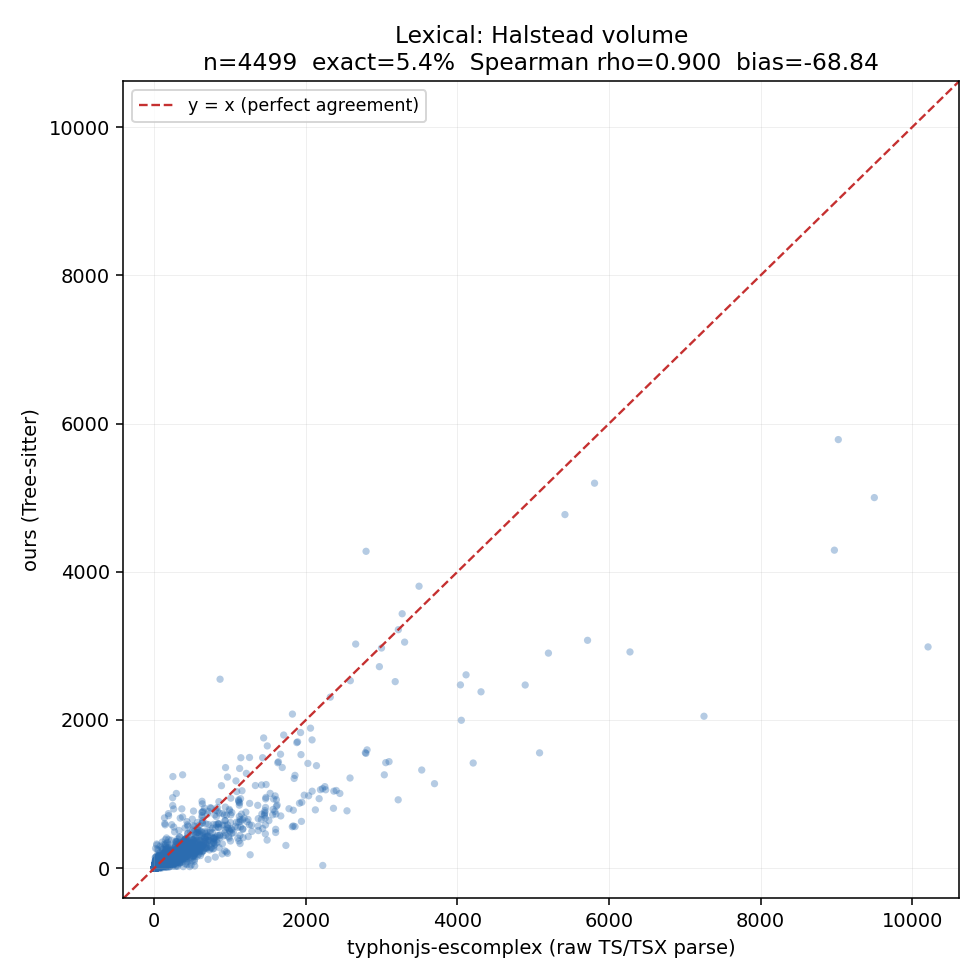
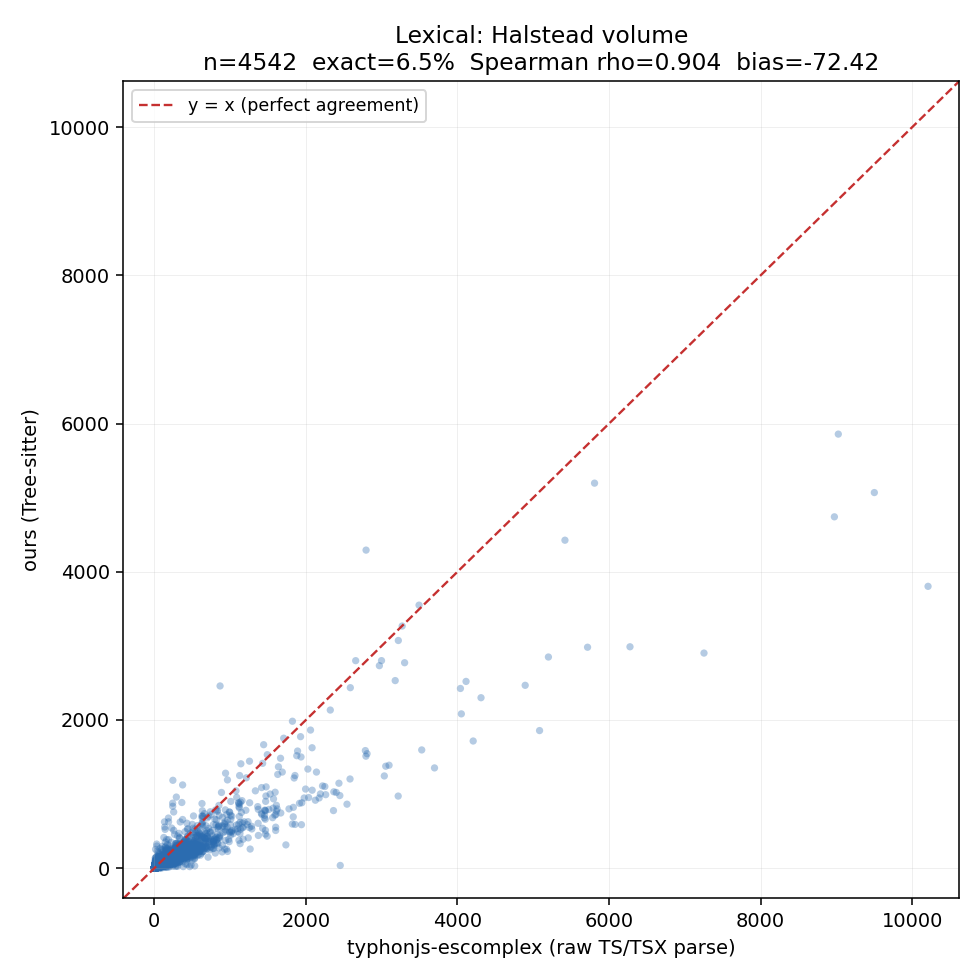
Regenerate cohort, self-analysis, Figure 3 and samples under 0.2.0
One combined pass, superseding 0ff89a1 (0.1.0) and everything before it.

Cohort structural columns are unchanged (424 files / 62,471 LOC / 3,473
functions, 0 skipped) — expected, since 0.2.0 moves per-function metrics and the
jscpd fix only bites where node_modules is on disk, which none of the six have.

Self-analysis duplication goes null -> 3.3%: jscpd previously walked
research/validation/node_modules and was killed at 60s. Self wall clock
64.24s -> 13.34s, so all 7 Figure 3 points now complete and none is flagged as
timeout-dominated. New fit t = 3.80e-04 * LOC^0.91, R^2 = 0.568.

Validation vs baselines: structural 99.81% / rho 0.9972, cognitive 92.44% /
0.9768, lexical 6.49% / 0.9038 (was 99.80 / 92.28 / 5.38).

Batch mode 1/7 -> 7/7 analyzed, complete: true.

Samples regenerated from their own recorded URL+commit, all from 0.0.0.
example-org-P13 now returns a zero report with analysisSkipped: web2py — the
guard working. Its old 1,084,782 sourceLOC was the repo's vendored web2py
framework, so that row was wrong before too.

diff --git a/research/REGENERATION_0.2.0.md b/research/REGENERATION_0.2.0.md
@@ -1,0 +1,193 @@
+# Regeneration under analyzer_version 0.2.0 — the numbers to quote
+
+Generated 2026-07-30, engine git `12530fc`.
+
+**These supersede commit `0ff89a1` (done under 0.1.0) and everything before it.**
+Nothing from an earlier run should be quoted. One pass, everything regenerated
+together, so no artifact is a version behind another.
+
+## What changed since the last regeneration
+
+| ID | change | affects |
+|---|---|---|
+| **D7** | Halstead operands keyed by literal value, not literal kind; doubled `string_fragment` removed | `halstead.*`, `maintainabilityIndexGradAi*` |
+| **D4 → B1/B2/B3** | cognitive-complexity rule replaced (nested chains, `else` bodies) | `cognitiveComplexity` |
+| **Bug 1** | jscpd `--ignore` now uses globs; failures logged distinctly | `duplication`, analysis wall clock |
+| **Bug 2** | batch mode no longer requires a root `package.json`; every target accounted for in artifacts | batch coverage |
+
+---
+
+## 1. Cohort — Table 3 (six repositories)
+
+Full table with provenance: [cohort_regen/cohort_table.md](cohort_regen/cohort_table.md)
+
+| Repo | Files | Source LOC | Functions | Duplication % |
+|---|---|---|---|---|
+| `P1` | 114 | 10,119 | 929 | 1.8 |
+| `P2` | 126 | 31,257 | 1,246 | 3.1 |
+| `P3` | 61 | 8,194 | 772 | 1.1 |
+| `P4` | 56 | 4,980 | 177 | 0.3 |
+| `P5` | 56 | 5,129 | 280 | 0.8 |
+| `P6` | 11 | 2,792 | 69 | 1.3 |
+| **Total** | **424** | **62,471** | **3,473** | — |
+
+Zero files skipped, `analysisSkipped` never fired, every duplication value
+non-null. **Structural columns are identical to 0.1.0** — expected, since the
+0.2.0 changes move per-function metrics, and the duplication fix only bites on
+repositories that have `node_modules` on disk (none of these do).
+
+Per-function means that did move, 0.1.0 → 0.2.0:
+
+| Repo | mean cognitive | mean Halstead volume | mean MI_norm |
+|---|---|---|---|
+| `P1` | 1.47 → 1.47 | 185.4 → 185.4 | 67.53 → 67.53 |
+| `P2` | 1.74 → 1.74 | 176.7 → 176.3 | 70.20 → 70.28 |
+| `P3` | 0.96 → 0.96 | 107.7 → 102.6 | 73.75 → 73.85 |
+| `P4` | 1.55 → 1.55 | 155.3 → 153.8 | 71.74 → 71.76 |
+| `P5` | 2.27 → 2.27 | 160.5 → 159.5 | 66.96 → 67.01 |
+| `P6` | 0.99 → 0.99 | 105.7 → 103.8 | 65.81 → 65.94 |
+
+## 2. Self-analysis
+
+[cohort_regen/reports/self_ts-repo-metrics.json](cohort_regen/reports/self_ts-repo-metrics.json),
+mirrored to `report.json` and `reports/ts-repo-metrics.json`.
+
+| | 0.1.0 | **0.2.0** |
+|---|---|---|
+| Files analyzed | 362 | **366** |
+| Source LOC | 43,087 | **43,648** |
+| Functions | 2,240 | **2,293** |
+| Duplication | **null** (jscpd killed at 60 s) | **3.3%** |
+| Mean cognitive | 1.96 | **1.95** |
+| Mean Halstead volume | 166.6 | **161.8** |
+| Mean MI_norm | 69.46 | **69.53** |
+
+The file/LOC/function growth is the repository itself changing between runs
+(tests and research docs added), not an engine effect. **The duplication cell is
+the engine effect**: self-duplication was previously unmeasurable because jscpd
+walked `research/validation/node_modules` and was killed by the 60 s timeout.
+
+## 3. Figure 3 — analysis time vs source LOC
+
+[cohort_regen/figure3_analysis_time_vs_loc.{svg,pdf,png}](cohort_regen/),
+data in [cohort_regen/timing_data.csv](cohort_regen/timing_data.csv).
+
+Fit: **t = 3.80e-04 · LOC^0.91, R² = 0.568, n = 7.**
+
+| repo | source LOC | wall clock s | jscpd s | excl. duplication s | jscpd status |
+|---|---|---|---|---|---|
+| P1 | 10,119 | 5.05 | 1.33 | 3.71 | completed |
+| P2 | 31,257 | 3.76 | 1.28 | 2.47 | completed |
+| P3 | 8,194 | 2.01 | 0.92 | 1.09 | completed |
+| P4 | 4,980 | 3.69 | 0.51 | 3.18 | completed |
+| P5 | 5,129 | 1.18 | 0.56 | 0.62 | completed |
+| P6 | 2,792 | 0.51 | 0.31 | 0.20 | completed |
+| ts-repo-metrics (self) | 43,648 | 13.34 | 6.58 | 6.76 | completed |
+
+**All seven points now complete.** In the 0.1.0 figure the self point was
+`TIMEOUT_KILLED_60s` — its 64.24 s wall clock was dominated by a fixed timeout
+rather than by work proportional to LOC, and had to be flagged. Self wall clock
+is now **13.34 s** (jscpd 60.0 s → 6.58 s).
+
+## 4. Metric validity vs independent baselines
+
+[validation/summary.json](validation/summary.json), full write-up in
+[validation/findings.md](validation/findings.md).
+
+| family | baseline | n | exact agreement | Spearman ρ | mean signed diff (ours − baseline) |
+|---|---|---|---|---|---|
+| structural (cyclomatic) | ts-complex | 4,631 | **99.81%** | **0.9972** | 0.00 |
+| cognitive | eslint-plugin-sonarjs | 4,631 | **92.44%** | **0.9768** | −0.06 |
+| lexical (Halstead volume) | typhonjs-escomplex | 4,542 | **6.49%** | **0.9038** | −72.42 |
+
+Change from the published 0.1.0-era figures:
+
+| family | exact agreement | Spearman ρ |
+|---|---|---|
+| structural | 99.80% → 99.81% | 0.9972 → 0.9972 |
+| cognitive | 92.28% → **92.44%** (+0.16 pp) | 0.9770 → 0.9768 |
+| lexical | 5.38% → **6.49%** (+1.12 pp) | 0.8998 → **0.9038** |
+
+Exact agreement for lexical uses the harness's `VOLUME_REL_TOL = 0.01` (within
+1%). `n` grew because the self repository grew between runs.
+
+## 5. Batch mode
+
+[cohort_regen/batch_output/](cohort_regen/batch_output/) — `batch_manifest.json`
+plus a `summary.csv` carrying `status` and `reason` columns.
+
+**7 targets found, 7 analyzed, 0 skipped, 0 failed, `complete: true`.**
+Previously 1 of 7: five repositories have no root `package.json` and were
+silently dropped, and P7/P3 were the only survivors.
+
+## 6. Pre/post-AI dataset samples
+
+[datasets/samples/](datasets/samples/) — regenerated from each report's own
+recorded URL and commit, so only the analyzer changed. All were at **0.0.0**,
+two generations stale.
+
+| sample | files | functions | duplication |
+|---|---|---|---|
+| post_ai/Alaurosa-vision-studio | 189 | 2,215 | 1.5% |
+| post_ai/example-org-P8 | 269 | 1,586 | 4.5% |
+| post_ai/example-org-P9 | 92 | 423 | 1.4% |
+| post_ai/example-org-P10 | 69 | 793 | 7.2% |
+| pre_ai/MissValeska-CSE-115A-GeneSearcher | 16 | 85 | 4.1% |
+| pre_ai/nkalscheuer-mavericks | 16 | 15 | 0% |
+| pre_ai/raeeka98-MarinePlastics-MobileApp | 25 | 64 | 12.3% |
+| **pre_ai/example-org-P13** | **0** | **0** | **null** |
+
+### ⚠ P13 now returns a zero report — and the old number was wrong
+
+`example-org-P13` regenerates to `filesAnalyzed: 0` with
+`analysisSkipped: {"id": "web2py", ...}`. This is the engine's
+unsupported-framework guard working, not a regression.
+
+The 0.0.0 report claimed **1,709 files / 9,526 functions / 1,084,782 source
+LOC**. A million source LOC is not a student project — the repository vendors
+web2py at its top level, and the pre-guard run was measuring the framework.
+**That row should not be quoted from any prior version either.** The pre-AI
+sample set is effectively 3 repositories, not 4.
+
+---
+
+## Still open — read before quoting Halstead or MI
+
+**1. 45.1% of cohort functions are Python, where the D7 fix does not apply.**
+1,566 of 3,473 cohort functions are Python; the Python operand path still
+collapses string and numeric literals by kind. It was left that way deliberately
+— escomplex is JS-only, so a Python change has no baseline. A single cohort-wide
+Halstead or MI aggregate therefore mixes two operand conventions. Per-language or
+JS/TS-only framings avoid this. **This needs a decision.**
+
+**2. Cognitive complexity barely moved at cohort level.** The D4 replacement is
+correct per spec and fixes four fixture classes outright, but its defects were
+rare in this corpus and cancelled in aggregate (+0.16 pp against SonarJS). If a
+claim rests on cohort-mean cognitive complexity, that number did not
+meaningfully change.
+
+**3. Lexical agreement is still 6.49%.** Better than 5.38%, but the residual gap
+is now dominated by *operator* conventions rather than operands (probe: our
+n1=2 vs escomplex n1=4 on the same snippet), plus counting a function's own name
+as an operand. Both were out of scope for D7.
+
+**4. The logical-operator divergence is unfixed.** Known, separate, deliberately
+untouched: 2 of 24 cognitive fixtures still disagree with SonarJS.
+
+## Not regenerated
+
+**`data/analyses_rows.csv` (85 MB).** A Supabase export of stored analysis rows,
+not a local engine artifact — regenerating it means re-running analyses through
+the dashboard/Supabase pipeline and re-exporting. It still contains 0.0.0/0.1.0-era
+`maintainabilityIndexGradAi` values and is **stale**. Out of scope for a local
+pass; needs a separate pipeline run.
+
+## Reproducing
+
+```bash
+node research/cohort_regen/regenerate.mjs                  # cohort + self
+python3 research/cohort_regen/make_figure3.py              # Figure 3
+npx tsx src/cli.ts batch <repos> --output <dir> --csv      # batch evidence
+research/validation/run_validation.sh                      # validity vs 3 baselines
+node research/datasets/samples/regenerate_samples.mjs <tmp> # pre/post-AI samples
+```

diff --git a/research/validation/fixture_table.md b/research/validation/fixture_table.md
@@ -2,19 +2,19 @@
 
 | fixture function | cyc ours | cyc ts-complex | cog ours | cog sonarjs | vol ours | vol escomplex | constructs present |
 |---|---|---|---|---|---|---|---|
-| `conventions.ts:1 h1_else` | 2 | 2 | 2 | 2 | 30.881 | 25.3 | else_clauses=1 |
-| `conventions.ts:4 h2_emptyCaseFallthrough` | 4 ⚠ | 2 | 1 | 1 | 54 | 43.2 | empty_case_clauses=2, nonempty_case_clauses=1, switch_statements=1 |
-| `conventions.ts:14 h3_switchBreaks` | 4 | 4 | 1 | 1 | 82.418 | 101.6 | nonempty_case_clauses=3, unlabeled_jumps=3, switch_statements=1 |
-| `conventions.ts:23 h4_logicalOps` | 4 | 4 | 1 ⚠ | 2 | 42 | 30 | logical_sequences=1 |
+| `conventions.ts:1 h1_else` | 2 | 2 | 2 | 2 | 33 | 25.3 | else_clauses=1 |
+| `conventions.ts:4 h2_emptyCaseFallthrough` | 4 ⚠ | 2 | 1 | 1 | 51.891 | 43.2 | empty_case_clauses=2, nonempty_case_clauses=1, switch_statements=1 |
+| `conventions.ts:14 h3_switchBreaks` | 4 | 4 | 1 | 1 | 87.569 | 101.6 | nonempty_case_clauses=3, unlabeled_jumps=3, switch_statements=1 |
+| `conventions.ts:23 h4_logicalOps` | 4 | 4 | 1 ⚠ | 2 | 44.379 | 30 | logical_sequences=1 |
 | `conventions.ts:27 h5_nestedFn` | 1 | 1 | 0 | 0 | 10 | 24 | nested_fn_expr=1 |
-| `conventions.ts:28 inner` | 2 | 2 | 1 | 1 | 25.85 | 20.7 | — |
-| `conventions.ts:33 h6_plain` | 1 | 1 | 0 | 0 | 33 | 53.2 | — |
-| `else_chains.ts:1 elseIfChain` | 5 | 5 | 5 | 5 | 89.835 | 99.7 | else_clauses=4 |
-| `else_chains.ts:8 plainElse` | 2 | 2 | 2 | 2 | 30.881 | 25.3 | else_clauses=1 |
+| `conventions.ts:28 inner` | 2 | 2 | 1 | 1 | 28.074 | 20.7 | — |
+| `conventions.ts:33 h6_plain` | 1 | 1 | 0 | 0 | 30 | 53.2 | — |
+| `else_chains.ts:1 elseIfChain` | 5 | 5 | 5 | 5 | 110.702 | 99.7 | else_clauses=4 |
+| `else_chains.ts:8 plainElse` | 2 | 2 | 2 | 2 | 33 | 25.3 | else_clauses=1 |
 | `logical_ops.tsx:1 JsxLogical` | 4 | 4 | 0 | 0 | 48 | 16.3 | logical_sequences=3 |
 | `logical_ops.tsx:10 BoolLogical` | 6 | 6 | 0 ⚠ | 2 | 73.082 | 83 | logical_sequences=4 |
 | `nesting.ts:1 parentWithNestedArrow` | 1 | 1 | 0 | 0 | 10 | 19.7 | — |
-| `nesting.ts:2 @anon` | 3 | 3 | 3 | 3 | 41.359 | 42 | — |
-| `nesting.ts:10 deepNesting` | 5 | 5 | 10 | 10 | 69.76 | 71.7 | — |
+| `nesting.ts:2 @anon` | 3 | 3 | 3 | 3 | 50.719 | 42 | — |
+| `nesting.ts:10 deepNesting` | 5 | 5 | 10 | 10 | 72.648 | 71.7 | — |
 
 ⚠ marks a disagreement with the corresponding baseline.
